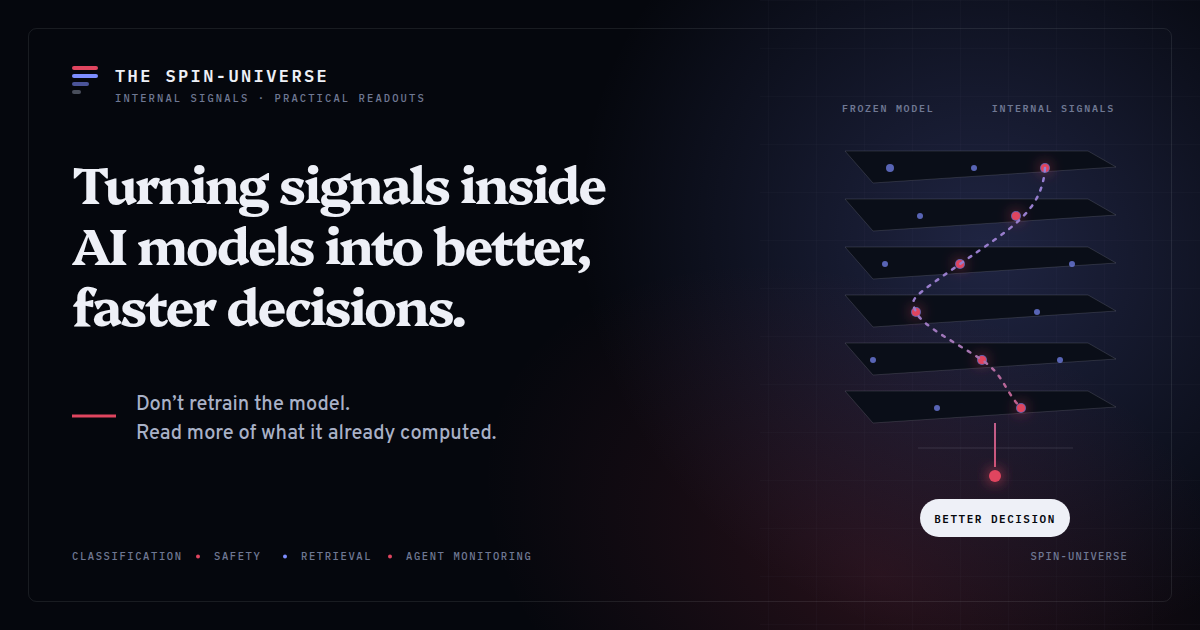
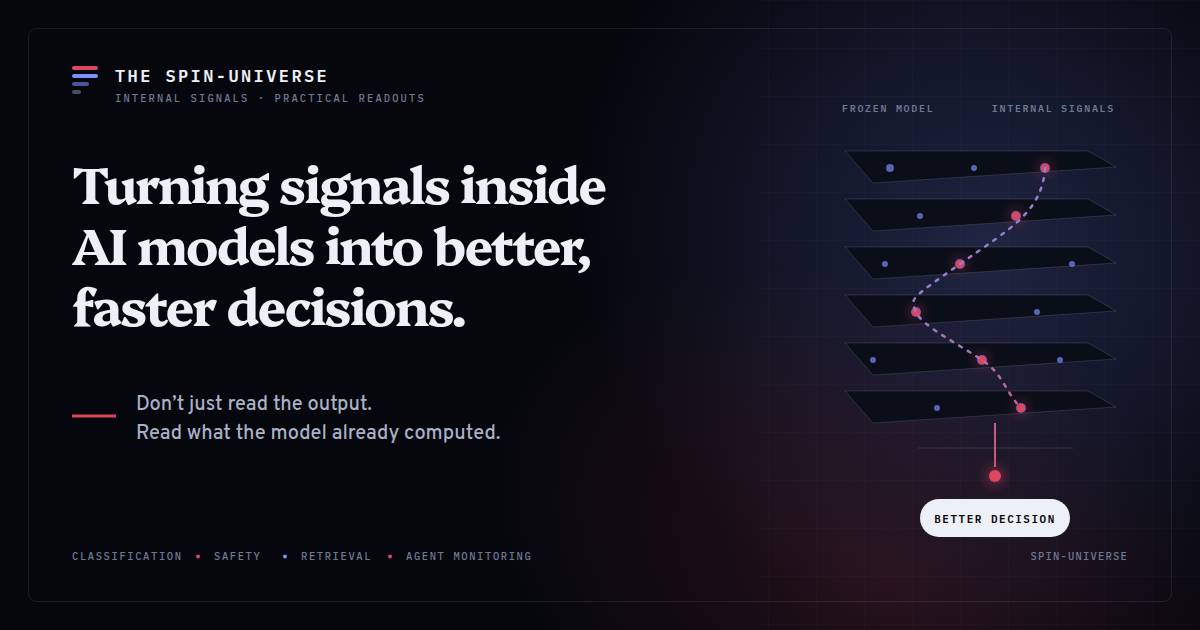
spin-universe

Changed region(s): [[0.1542, 0.6333, 0.4317, 0.7238]]

diff --git a/index.html b/index.html
@@ -4,11 +4,11 @@
 <meta charset="utf-8">
 <meta name="viewport" content="width=device-width, initial-scale=1">
 <title>The SPIN-Universe &middot; Read More from the Model You Have</title>
-<meta name="description" content="The SPIN-Universe turns signals inside AI models into better, faster decisions. Don't retrain the model—read more of what it already computed.">
+<meta name="description" content="The SPIN-Universe turns signals inside AI models into better, faster decisions. Don't just read the output—read what the model already computed.">
 <link rel="canonical" href="https://difanj0713.github.io/spin-universe/">
 <meta property="og:type" content="website">
 <meta property="og:title" content="The SPIN-Universe &middot; Read More from the Model You Have">
-<meta property="og:description" content="Turning signals inside AI models into better, faster decisions. Don't retrain the model—read more of what it already computed.">
+<meta property="og:description" content="Turning signals inside AI models into better, faster decisions. Don't just read the output—read what the model already computed.">
 <meta property="og:url" content="https://difanj0713.github.io/spin-universe/">
 <meta property="og:site_name" content="The SPIN-Universe">
 <meta property="og:image" content="https://difanj0713.github.io/spin-universe/assets/img/social/homepage.png">
@@ -28,7 +28,7 @@
       "@id": "https://difanj0713.github.io/spin-universe/#collection",
       "url": "https://difanj0713.github.io/spin-universe/",
       "name": "The SPIN-Universe · Read More from the Model You Have",
-      "description": "The SPIN-Universe turns signals inside AI models into better, faster decisions. Don't retrain the model—read more of what it already computed.",
+      "description": "The SPIN-Universe turns signals inside AI models into better, faster decisions. Don't just read the output—read what the model already computed.",
       "inLanguage": "en",
       "primaryImageOfPage": {
         "@type": "ImageObject",
@@ -78,7 +78,7 @@
 <link rel="preconnect" href="https://fonts.googleapis.com">
 <link rel="preconnect" href="https://fonts.gstatic.com" crossorigin>
 <link rel="stylesheet" href="https://fonts.googleapis.com/css2?family=IBM+Plex+Mono:wght@500;600&amp;family=Overpass:ital,wght@0,400;0,500;0,600;0,700;1,400&amp;family=Platypi:ital,wght@0,600;0,700;0,800;1,600&amp;display=swap">
-<link rel="stylesheet" href="assets/css/site.css?v=10">
+<link rel="stylesheet" href="assets/css/site.css?v=12">
 <link rel="icon" href="/spin-universe/assets/img/favicon.svg" type="image/svg+xml">
 <link rel="icon" href="/spin-universe/assets/img/favicon-48x48.png" type="image/png" sizes="48x48">
 
@@ -118,7 +118,7 @@
       <p class="eyebrow collaboration"><span class="institution">University of Toronto</span><span class="collab-mark">&times;</span><span class="institution">McGill University</span><span class="collab-mark">&times;</span><span class="institution">LMU Munich</span></p>
       <h1 class="title">The SPIN&#8209;Universe</h1>
       <p class="hero-promise">Turning signals inside AI models into better, faster decisions.</p>
-      <p class="lede">Don&rsquo;t retrain the model.<br><em class="lede-line">Read more of what it already computed.</em></p>
+      <p class="lede">Don&rsquo;t just read the output.<br><em class="lede-line">Read what the model already computed.</em></p>
       <div class="cta-row">
         <a class="btn btn-primary" href="#phenomenon">Read the story</a>
         <a class="btn btn-ghost" href="#stage">Visualizations</a>
@@ -141,18 +141,16 @@
       <div class="beat">
         <div class="beat-n">01</div>
         <div>
-          <h3>The output is not the whole computation.</h3>
-          <p>A human answer rarely contains every clue behind it. A model&rsquo;s output has the same basic gap: the visible tokens show the result, not every useful signal formed across its layers.</p>
-          <p>When we read only the output, we leave the rest of that computation unused.</p>
+          <h3>A model does not say everything it computes.</h3>
+          <p>People rarely say every thought behind an answer. Models have a similar gap: the words you see are only the end of a much larger computation, and useful signals can remain inside without ever reaching the output.</p>
         </div>
       </div>
 
       <div class="beat">
         <div class="beat-n">02</div>
         <div>
-          <h3>What goes unsaid can still be useful.</h3>
-          <p>Across multiple domains, we found useful internal signals that the model&rsquo;s usual output did not fully reveal. Reading them improved text classification, caught more safety risks, strengthened document retrieval, and exposed unsafe agent behavior&mdash;all without changing the backbone.</p>
-          <p>The signal was already there. We gave it another way out.</p>
+          <h3>The signal you need may already be there.</h3>
+          <p>We found those signals in text classification, AI safety, document search, and agent monitoring. Read those internal states differently, and the same model can classify better, catch more risks, and return better search results.</p>
         </div>
       </div>
 
@@ -160,20 +158,14 @@
         <div class="beat-n">03</div>
         <div>
           <h3>For compact tasks, better can be cheaper.</h3>
-          <p>Later layers prepare the model to produce its output. That matters for writing, but a compact task may already have what it needs.</p>
-          <p>Reading the signal where it is strongest can improve the result, skip token generation, and, when that point comes early, stop the forward pass there.</p>
+          <p>A label, safety score, or search ranking does not need a paragraph of generated text. A small readout can skip decoding. If the useful signal appears early, you can stop the computation there too.</p>
         </div>
       </div>
     </div>
 
     <div class="applies">
       <h3>So when is this worth trying?</h3>
-      <p class="applies-lede">The best fit is a compact task where efficiency matters. If what you need is a label, a score, a ranking, or an embedding rather than open-ended text, try reading it out instead of generating it.</p>
-      <ul class="applies-list">
-        <li><b>Read, do not generate.</b> The target is a decision to recover, not a passage to write.</li>
-        <li><b>Start with the model you already have.</b> Keep the backbone frozen and test whether a small readout can expose a useful internal signal.</li>
-        <li><b>Take the shortest useful path.</b> Skip token generation; if the signal is strongest before the final layer, stop there.</li>
-      </ul>
+      <p class="applies-lede">Whenever the result you need is compact and efficiency matters. Start with the model you already have and test whether the signal is readable inside.</p>
     </div>
   </div>
 </section>

diff --git a/team/index.html b/team/index.html
@@ -12,7 +12,7 @@
 <link rel="preconnect" href="https://fonts.googleapis.com">
 <link rel="preconnect" href="https://fonts.gstatic.com" crossorigin>
 <link rel="stylesheet" href="https://fonts.googleapis.com/css2?family=IBM+Plex+Mono:wght@500;600&amp;family=Overpass:ital,wght@0,400;0,500;0,600;0,700;1,400&amp;family=Platypi:ital,wght@0,600;0,700;0,800;1,600&amp;display=swap">
-<link rel="stylesheet" href="../assets/css/site.css?v=10">
+<link rel="stylesheet" href="../assets/css/site.css?v=12">
 <link rel="icon" href="/spin-universe/assets/img/favicon.svg" type="image/svg+xml">
 <link rel="icon" href="/spin-universe/assets/img/favicon-48x48.png" type="image/png" sizes="48x48">
 </head>
@@ -29,16 +29,8 @@
   <div class="shell">
 
     <div class="team-group">
-      <h2>Direction</h2>
-      <ul class="roster lead">
-      <li class="person">
-        <a href="https://difanj0713.github.io/" target="_blank" rel="noopener">
-        <img class="avatar" src="../assets/img/team/difan.jpg" alt="Difan Jiao" loading="lazy" width="480" height="480">
-        <p class="who-name">Difan Jiao<span class="ext">&#8599;</span></p>
-        <p class="who-role">Ph.D. Student, Computer Science</p>
-        <p class="who-aff">University of Toronto</p>
-        </a>
-      </li>
+      <h2>Faculty lead</h2>
+      <ul class="roster">
       <li class="person">
         <a href="https://www.cs.toronto.edu/~ashton/" target="_blank" rel="noopener">
         <img class="avatar" src="../assets/img/team/ashton.jpg" alt="Ashton Anderson" loading="lazy" width="480" height="480">
@@ -53,6 +45,14 @@
     <div class="team-group">
       <h2>Core contributors</h2>
       <ul class="roster">
+      <li class="person">
+        <a href="https://difanj0713.github.io/" target="_blank" rel="noopener">
+        <img class="avatar" src="../assets/img/team/difan.jpg" alt="Difan Jiao" loading="lazy" width="480" height="480">
+        <p class="who-name">Difan Jiao<span class="ext">&#8599;</span></p>
+        <p class="who-role">Ph.D. Student, Computer Science</p>
+        <p class="who-aff">University of Toronto</p>
+        </a>
+      </li>
       <li class="person">
         <a href="https://liuyilun2000.github.io/" target="_blank" rel="noopener">
         <img class="avatar" src="../assets/img/team/yilun.jpg" alt="Yilun Liu" loading="lazy" width="480" height="480">
@@ -89,7 +89,7 @@
         <div>
           <div class="avatar-blank" aria-hidden="true">WL</div>
           <p class="who-name">Weien Li</p>
-          <p class="who-role">Co-lead, MINER</p>
+          <p class="who-role">Researcher</p>
           <p class="who-aff">McGill University</p>
         </div>
       </li>
@@ -97,7 +97,7 @@
         <div>
           <div class="avatar-blank" aria-hidden="true">RS</div>
           <p class="who-name">Rui Song</p>
-          <p class="who-role">Co-lead, MINER</p>
+          <p class="who-role">Researcher</p>
           <p class="who-aff">McGill University</p>
         </div>
       </li>
@@ -105,7 +105,30 @@
     </div>
 
     <div class="team-group">
+      <h2>Collaborating faculty</h2>
+      <ul class="roster">
+      <li class="person">
+        <a href="https://www.professoren.tum.de/en/pfeffer-juergen" target="_blank" rel="noopener">
+        <img class="avatar" src="../assets/img/team/jurgen.jpg" alt="J&uuml;rgen Pfeffer" loading="lazy" width="480" height="480">
+        <p class="who-name">J&uuml;rgen Pfeffer<span class="ext">&#8599;</span></p>
+        <p class="who-role">Professor, Computational Social Science</p>
+        <p class="who-aff">Technical University of Munich</p>
+        </a>
+      </li>
+      <li class="person">
+        <a href="https://www.cs.mcgill.ca/~xueliu/" target="_blank" rel="noopener">
+        <img class="avatar" src="../assets/img/team/xue-liu.jpg" alt="Xue Liu" loading="lazy" width="480" height="480">
+        <p class="who-name">Xue Liu<span class="ext">&#8599;</span></p>
+        <p class="who-role">Professor, Computer Science</p>
+        <p class="who-aff">McGill University</p>
+        </a>
+      </li>
+      </ul>
+    </div>
+
+    <div class="team-group">
       <h2>Papers and their authors</h2>
+      <p class="team-thanks">We thank all co-authors listed below.</p>
       <div class="paper-authors">
         <div>
           <p class="what">SPIN</p>

diff --git a/agent-siren/index.html b/agent-siren/index.html
@@ -43,7 +43,7 @@
 <link rel="preconnect" href="https://fonts.googleapis.com">
 <link rel="preconnect" href="https://fonts.gstatic.com" crossorigin>
 <link rel="stylesheet" href="https://fonts.googleapis.com/css2?family=IBM+Plex+Mono:wght@500;600&amp;family=Overpass:ital,wght@0,400;0,500;0,600;0,700;1,400&amp;family=Platypi:ital,wght@0,600;0,700;0,800;1,600&amp;display=swap">
-<link rel="stylesheet" href="../assets/css/site.css?v=10">
+<link rel="stylesheet" href="../assets/css/site.css?v=12">
 <link rel="stylesheet" href="../assets/css/agent-siren.css?v=3">
 <link rel="icon" href="/spin-universe/assets/img/favicon.svg" type="image/svg+xml">
 <link rel="icon" href="/spin-universe/assets/img/favicon-48x48.png" type="image/png" sizes="48x48">

diff --git a/miner/index.html b/miner/index.html
@@ -71,7 +71,7 @@
 <link rel="preconnect" href="https://fonts.googleapis.com">
 <link rel="preconnect" href="https://fonts.gstatic.com" crossorigin>
 <link rel="stylesheet" href="https://fonts.googleapis.com/css2?family=IBM+Plex+Mono:wght@500;600&amp;family=Overpass:ital,wght@0,400;0,500;0,600;0,700;1,400&amp;family=Platypi:ital,wght@0,600;0,700;0,800;1,600&amp;display=swap">
-<link rel="stylesheet" href="../assets/css/site.css?v=10">
+<link rel="stylesheet" href="../assets/css/site.css?v=12">
 <link rel="stylesheet" href="../assets/css/miner.css?v=2">
 <link rel="icon" href="/spin-universe/assets/img/favicon.svg" type="image/svg+xml">
 <link rel="icon" href="/spin-universe/assets/img/favicon-48x48.png" type="image/png" sizes="48x48">

diff --git a/siren/index.html b/siren/index.html
@@ -64,7 +64,7 @@
 <link rel="preconnect" href="https://fonts.googleapis.com">
 <link rel="preconnect" href="https://fonts.gstatic.com" crossorigin>
 <link rel="stylesheet" href="https://fonts.googleapis.com/css2?family=IBM+Plex+Mono:wght@500;600&amp;family=Overpass:ital,wght@0,400;0,500;0,600;0,700;1,400&amp;family=Platypi:ital,wght@0,600;0,700;0,800;1,600&amp;display=swap">
-<link rel="stylesheet" href="../assets/css/site.css?v=10">
+<link rel="stylesheet" href="../assets/css/site.css?v=12">
 <link rel="stylesheet" href="../assets/css/siren.css?v=2">
 <link rel="icon" href="/spin-universe/assets/img/favicon.svg" type="image/svg+xml">
 <link rel="icon" href="/spin-universe/assets/img/favicon-48x48.png" type="image/png" sizes="48x48">

diff --git a/spin/index.html b/spin/index.html
@@ -62,7 +62,7 @@
 <link rel="preconnect" href="https://fonts.googleapis.com">
 <link rel="preconnect" href="https://fonts.gstatic.com" crossorigin>
 <link rel="stylesheet" href="https://fonts.googleapis.com/css2?family=IBM+Plex+Mono:wght@500;600&amp;family=Overpass:ital,wght@0,400;0,500;0,600;0,700;1,400&amp;family=Platypi:ital,wght@0,600;0,700;0,800;1,600&amp;display=swap">
-<link rel="stylesheet" href="../assets/css/site.css?v=10">
+<link rel="stylesheet" href="../assets/css/site.css?v=12">
 <link rel="stylesheet" href="../assets/css/spin.css?v=4">
 <link rel="icon" href="/spin-universe/assets/img/favicon.svg" type="image/svg+xml">
 <link rel="icon" href="/spin-universe/assets/img/favicon-48x48.png" type="image/png" sizes="48x48">

diff --git a/assets/css/site.css b/assets/css/site.css
@@ -1059,7 +1059,7 @@ h1.title {
 }
 
 .applies-lede {
-  margin: 0 0 1.6rem;
+  margin: 0;
   color: var(--ink-2);
   max-width: 62ch;
   font-size: 1.03rem;
@@ -1148,6 +1148,12 @@ h1.title {
 .paper-authors {
   display: grid;
   gap: 1.4rem;
+}
+
+.team-thanks {
+  max-width: 48rem;
+  margin: -0.15rem 0 1.65rem;
+  color: var(--ink-2);
 }
 
 .paper-authors div {
